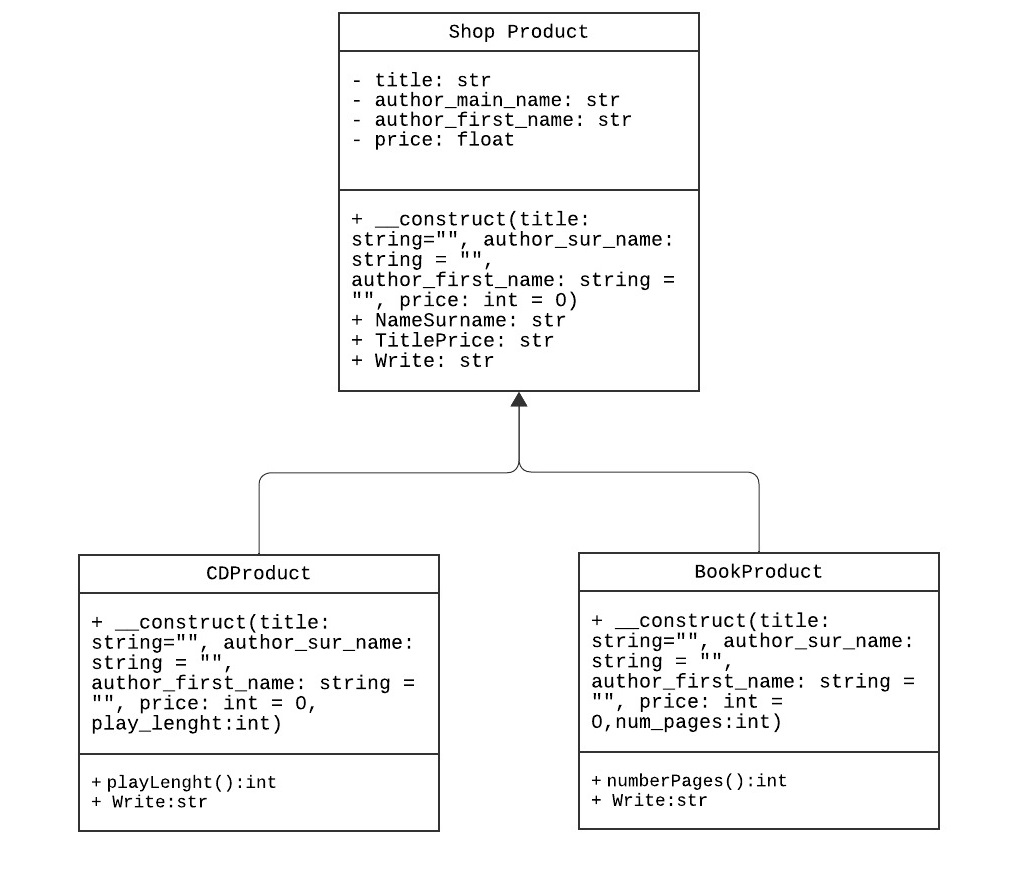
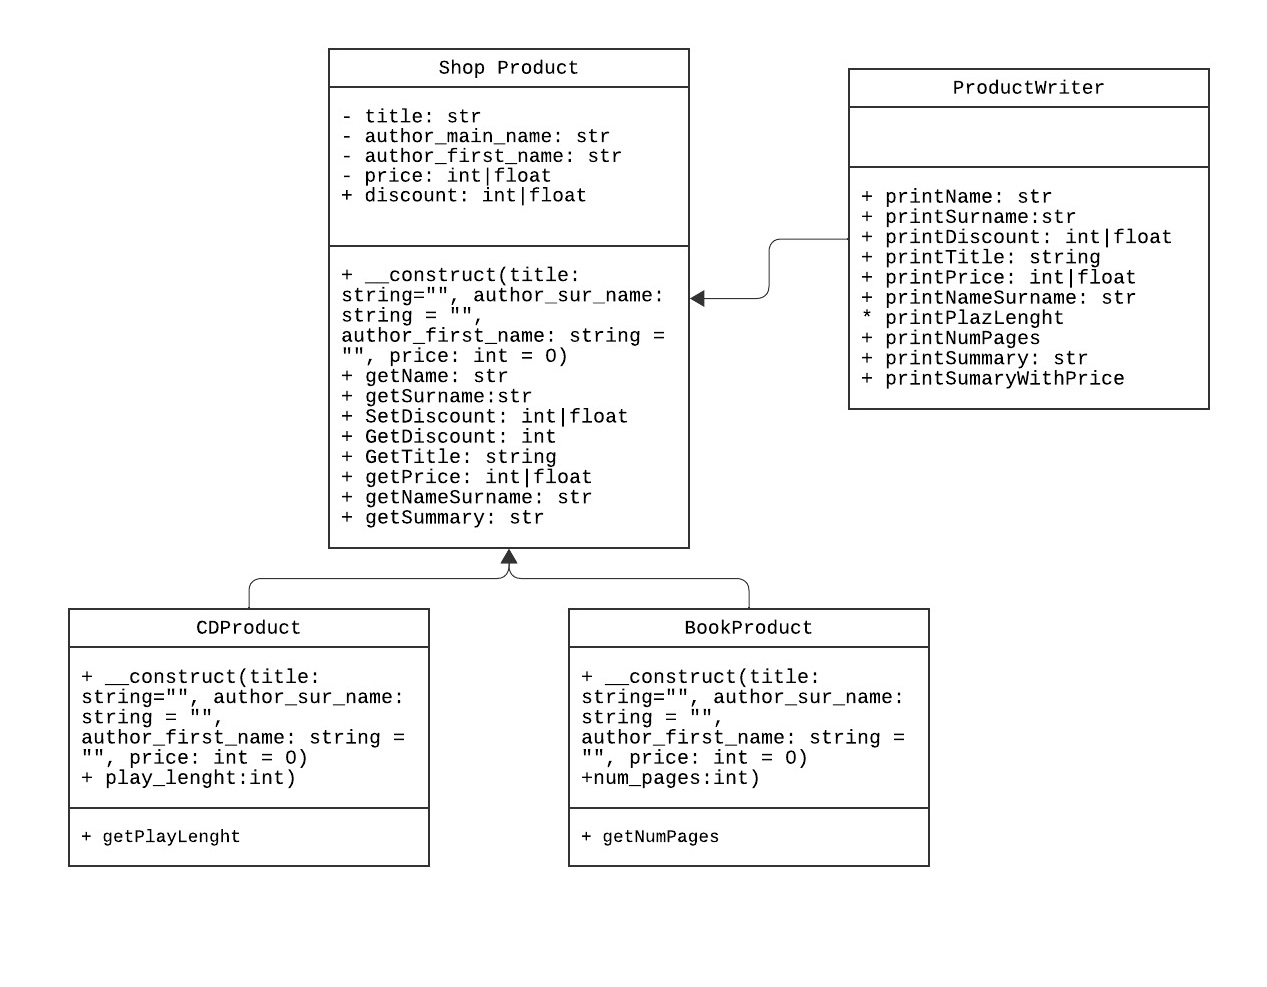
Konacna verzija programa, i kraj prve lekcije (Osnovi OOP u PHP)

Changed region(s): [[0.0305, 0.0, 0.9754, 0.9111], [0.4267, 0.6074, 0.884, 0.9111], [0.6706, 0.0304, 0.9754, 0.1215]]

diff --git a/newfile.php b/newfile.php
@@ -1,56 +1,65 @@
 <?php
 class ShopProduct {
     public function __construct(
-        public string $title,
-        public string $author_sur_name = "",
-        public string $author_first_name = "",
-        public float $price = 0,
-        public float $discount = 0 // Specify the type for $discount
+        private string $title,
+        private string $author_sur_name = "",
+        private string $author_first_name = "",
+        protected int|float $price = 0
         ) {
     }
     
-    public function NameSurname(): string {
-        return $this->author_first_name . " " . $this->author_sur_name;
+    private int|float $discount;
+    
+    public function getName(): string {
+        return $this->author_first_name;
     }
     
-    public function TitlePrice(): string {
-        return $this->title . " price " . $this->price;
+    public function getSurname(): string {
+        return  $this->author_sur_name;
     }
     
-    public function write(): string {
-        $base = "tekst {$this->title} \n" .
+    public function setDiscount(int|float $num) {
+        return $this->discount = $num;
+    }
+    
+    public function getDiscount(): int|float {
+        return $this->discount;
+    }
+    
+    public function getTitle(): string {
+        return $this->title;
+    }
+    
+
+public function getPrice(): string {
+return $this->price;
+}
+    
+    public function getSummary(): string {
+        $base =
         "Ime autora: {$this->author_first_name} Prezime Autora: {$this->author_sur_name}\n" .
+        "Naslov dela: {$this->title}" .
         "Cena: {$this->price}\n";
         return $base;
     }
 }
 
 class CdProduct extends ShopProduct {
-    public int $play_lenght = 0;
+    public int $play_length = 0;
     
     public function __construct(
         string $title,
         string $author_sur_name = "",
         string $author_first_name = "",
         float $price = 0,
-        int $play_lenght = 0,
-        float $discount = 0 // Match the type with the parent class
+        int $play_length = 0
         ) {
-            parent::__construct($title, $author_sur_name, $author_first_name, $price, $discount);
-            $this->play_lenght = $play_lenght;
+            parent::__construct($title, $author_sur_name, $author_first_name, $price);
+            $this->play_length = $play_length;
     }
     
-    public function playLenght(): int {
-        return $this->play_lenght;
-    }
-    
-    public function write(): string {
-        $base = parent::write() . "Duzina reprodukcije {$this->play_lenght} \n\n";
-        return $base;
-    }
-    
-    public function CenasaPopustom(): float {
-        return ($this->price - $this->discount); // Fix variable names
+    public function getPlayLength(): int {
+        return $this->play_length;
     }
 }
 
@@ -62,33 +71,69 @@ class BookProduct extends ShopProduct {
         string $author_sur_name = "",
         string $author_first_name = "",
         float $price = 0,
-        int $num_pages = 0,
-        float $discount = 0 // Match the type with the parent class
+        int $num_pages = 0
         ) {
-            parent::__construct($title, $author_sur_name, $author_first_name, $price, $discount);
+            parent::__construct($title, $author_sur_name, $author_first_name, $price);
             $this->num_pages = $num_pages;
     }
     
-    public function numberPages(): int {
+    public function getNumberPages(): int {
         return $this->num_pages;
-    }
-    
-    public function write(): string {
-        $base = parent::write() . "Broj strana {$this->num_pages} \n\n";
-        return $base;
-    }
-    
-    public function CenasaPopustom(): float {
-        return ($this->price - $this->discount); // Fix variable names
     }
 }
 
-$book1 = new BookProduct("Book One", "Edis", "Mekic", 10.99, 250, 30);
-$cd1 = new CdProduct("CD One", "Artist", "LastName", 12.49, 542, 30);
 
-echo $book1->write();
-echo $book1->CenasaPopustom();
-echo $cd1->CenasaPopustom();
+
+
+class ShopProductWriter {
+    public function printName(ShopProduct $ShopProduct): string {
+        $str = $ShopProduct->getName(); // Access the product's name
+        return $str;
+    }
+    
+    public function printSurname(ShopProduct $ShopProduct): string {
+        $str = $ShopProduct->getSurname(); // Access the product's surname
+        return $str;
+    }
+    
+    public function printNameSurname(ShopProduct $ShopProduct): string {
+        $str = "Ime autora " . $ShopProduct->getName() . " ; Prezime autora " . $ShopProduct->getSurname() . " \n"; // Access the first product's name and surname
+        return $str;
+    }
+    
+    public function printplayLength(CdProduct $CdProduct): int {
+        $playLength = $CdProduct->getPlayLength(); // Access the product's play length
+        return $playLength;
+    }
+    
+    public function printnumberPages(BookProduct $BookProduct): int {
+        $numberPages = $BookProduct->getNumberPages(); // Access the product's play length
+        return $numberPages;
+    }
+    
+    
+    public function printgetSummary(ShopProduct $ShopProduct): string {
+        $discountedPrice = $ShopProduct->getPrice() - ($ShopProduct->getPrice() * $ShopProduct->getDiscount());
+
+        return $discountedPrice;
+    }
+}
+
+$cdProduct = new CdProduct("CD Title", "Artist Name", "Author Name", 12.99, 60);
+
+$printer = new ShopProductWriter();
+
+$cdProduct->setDiscount(0.10);
+
+echo $printer->printNameSurname($cdProduct);
+echo $printer->printName($cdProduct);
+echo $printer->printSurname($cdProduct);
+echo $printer->printplayLength($cdProduct);
+echo $printer->printgetSummary($cdProduct);
+
+
+
+
 
 
 
